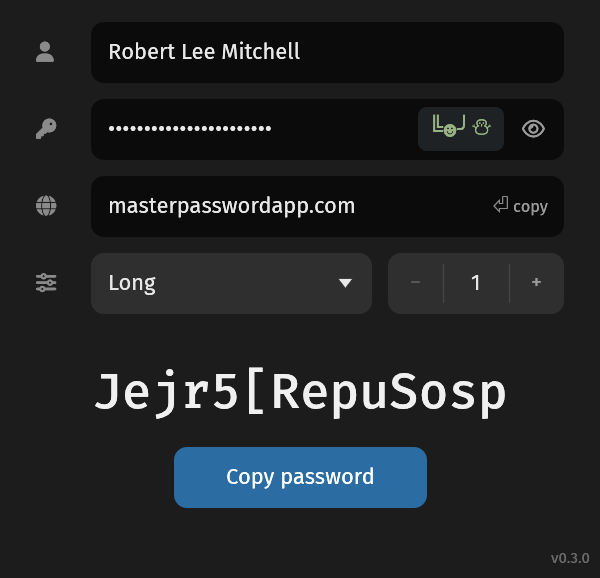
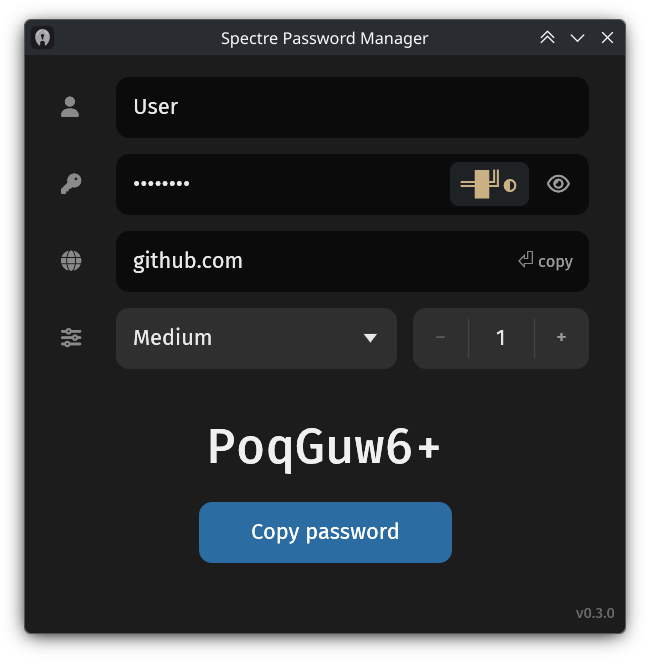
Show the whole window in the README screenshot
Claude-Session: https://claude.ai/code/session_01SiJcRXSqwDfofTKvkCXfE9

diff --git a/README.md b/README.md
@@ -2,7 +2,7 @@
 
 A Rust implementation of the Spectre password generator, inspired by the original Master Password algorithm.
 
-<img width="436" alt="The spectre-rs GUI showing a derived password for masterpasswordapp.com" src="docs/screenshot.png" />
+<img width="473" alt="The spectre-rs GUI showing a derived password for github.com" src="docs/screenshot.png" />
 
 This repository is organized as a Cargo workspace with:
 
